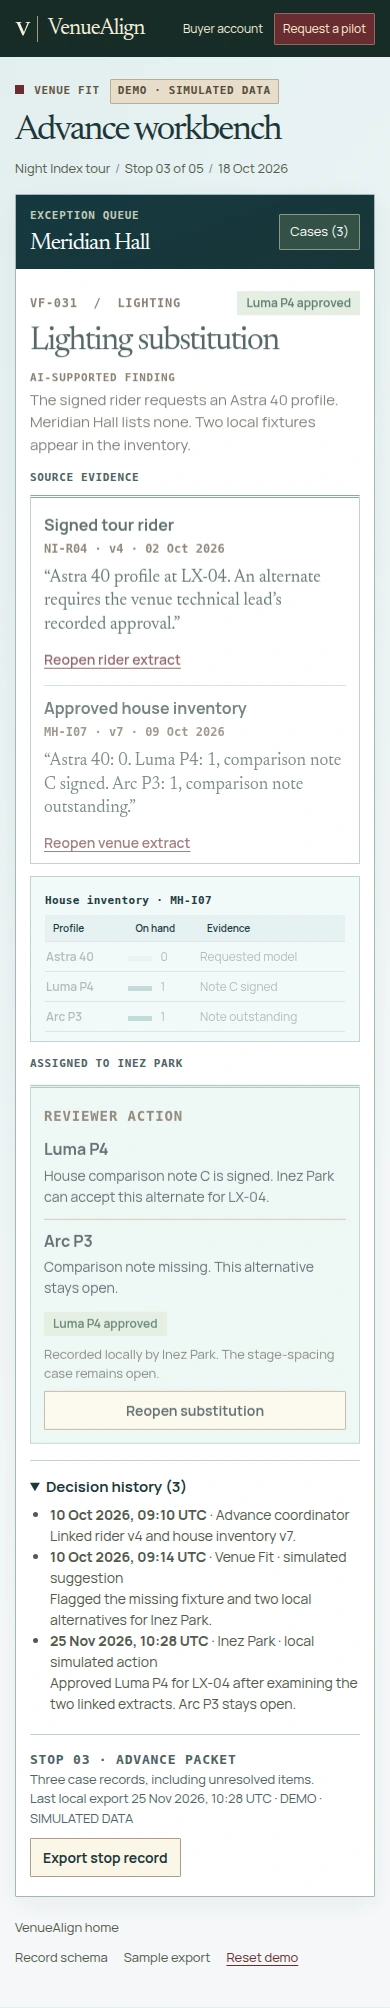
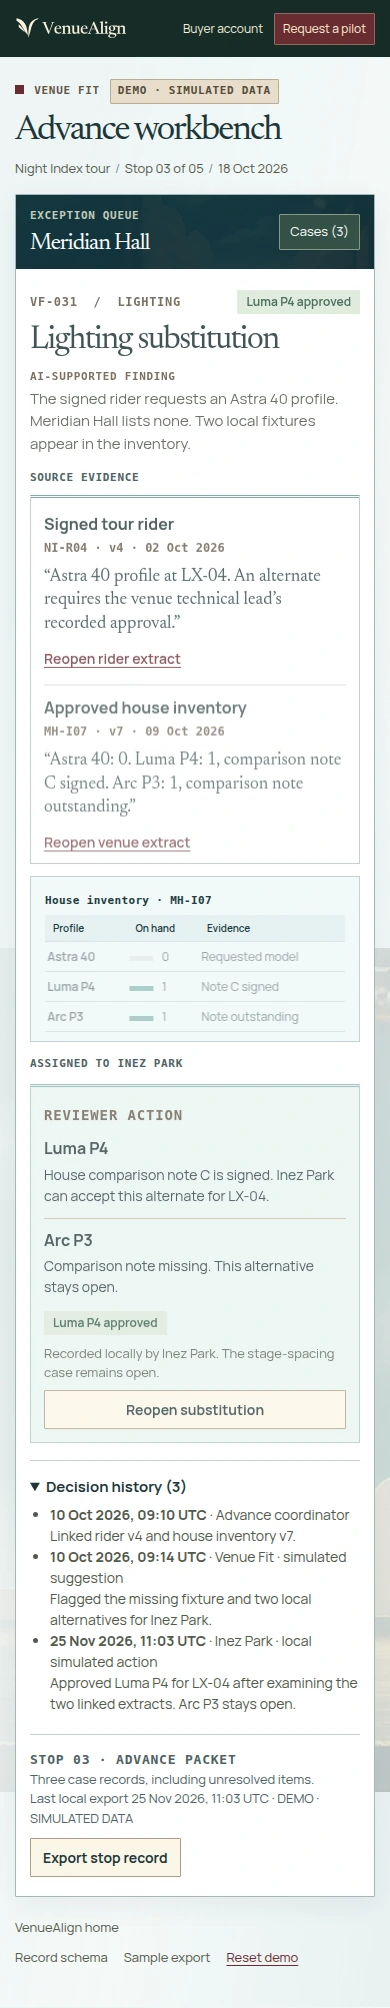
Refresh branded dashboard captures and preserve House Fold in standalone builds

diff --git a/src/build.py b/src/build.py
@@ -1,5 +1,5 @@
 """Build VenueAlign's public, readable static pages. Usage: python3 build.py OUTPUT_DIR."""
-import sys, html, json
+import sys, html, json, shutil
 from pathlib import Path
 import scenic
 from cues import review_story as review
@@ -8,6 +8,10 @@ from scenic import illustration
 from content import PRODUCTS as P,ROLES as R
 out=Path(sys.argv[1]).resolve()
 out.mkdir(parents=True,exist_ok=True)
+public=Path(__file__).resolve().parents[1]/'public'
+if public.is_dir() and public!=out:
+    shutil.copytree(public,out,dirs_exist_ok=True)
+(out/'assets').mkdir(exist_ok=True)
 def esc(s): return html.escape(s,quote=True)
 def a(slug,label,cls=''): return f'<a class="{cls}" href="{slug}.html">{label}</a>'
 def cta(slug,label,style=''): return a(slug,label,'btn '+style)
